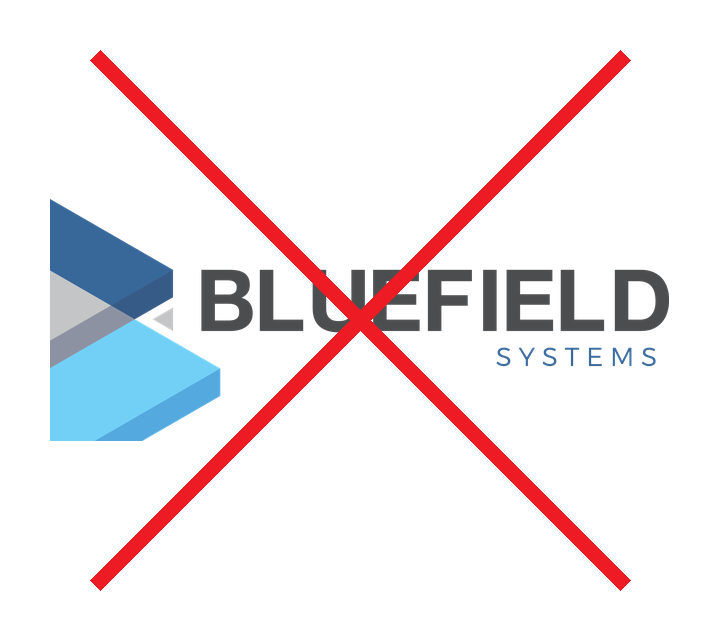
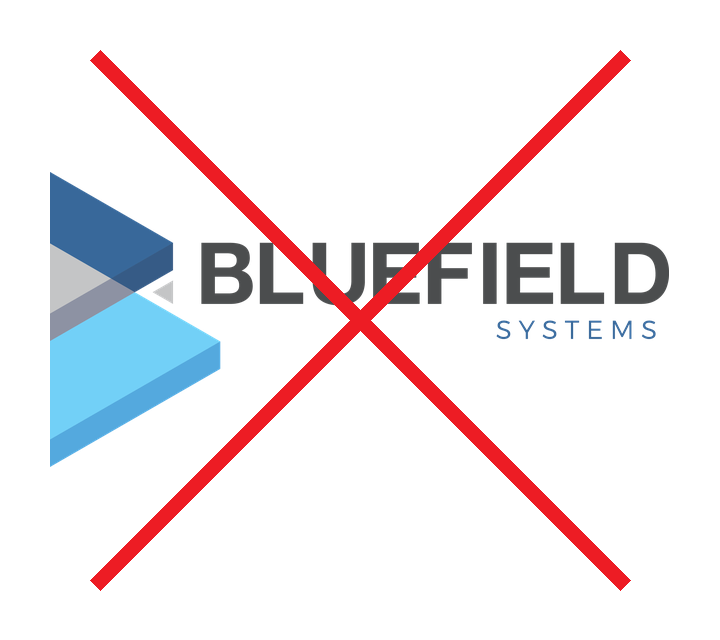
Add don't overrides for Bluefield and Force Equipment.
Custom Without AIR Tagline art for both, plus Without Symbol for Force Equipment.

Changed region(s): [[0.0611, 0.25, 0.9472, 0.75]]

diff --git a/output/force-equipment/index.html b/output/force-equipment/index.html
@@ -435,7 +435,7 @@
       <div class="donts-grid">
                 <div class="dont-item">
           <div class="dont-label">Without AIR Tagline</div>
-          <div class="dont-art-frame"><img class="dont-art" src="assets/donts/01-without-air-tagline.png?v=202606181926" alt=""></div>
+          <div class="dont-art-frame"><img class="dont-art" src="assets/donts/01-without-air-tagline.png?v=202606182127" alt=""></div>
         </div>
 
         <div class="dont-item">
@@ -456,7 +456,7 @@
         </div>
                 <div class="dont-item">
           <div class="dont-label">Without Symbol</div>
-          <div class="dont-art-frame"><img class="dont-art" src="assets/donts/06-without-symbol.png?v=202606181926" alt=""></div>
+          <div class="dont-art-frame"><img class="dont-art" src="assets/donts/06-without-symbol.png?v=202606182128" alt=""></div>
         </div>
         <div class="dont-item">
           <div class="dont-label">Symbol Only</div>

diff --git a/output/bluefield-systems/index.html b/output/bluefield-systems/index.html
@@ -435,7 +435,7 @@
       <div class="donts-grid">
                 <div class="dont-item">
           <div class="dont-label">Without AIR Tagline</div>
-          <div class="dont-art-frame"><img class="dont-art" src="assets/donts/01-without-air-tagline.png?v=202606181944" alt=""></div>
+          <div class="dont-art-frame"><img class="dont-art" src="assets/donts/01-without-air-tagline.png?v=202606182126" alt=""></div>
         </div>
 
         <div class="dont-item">
